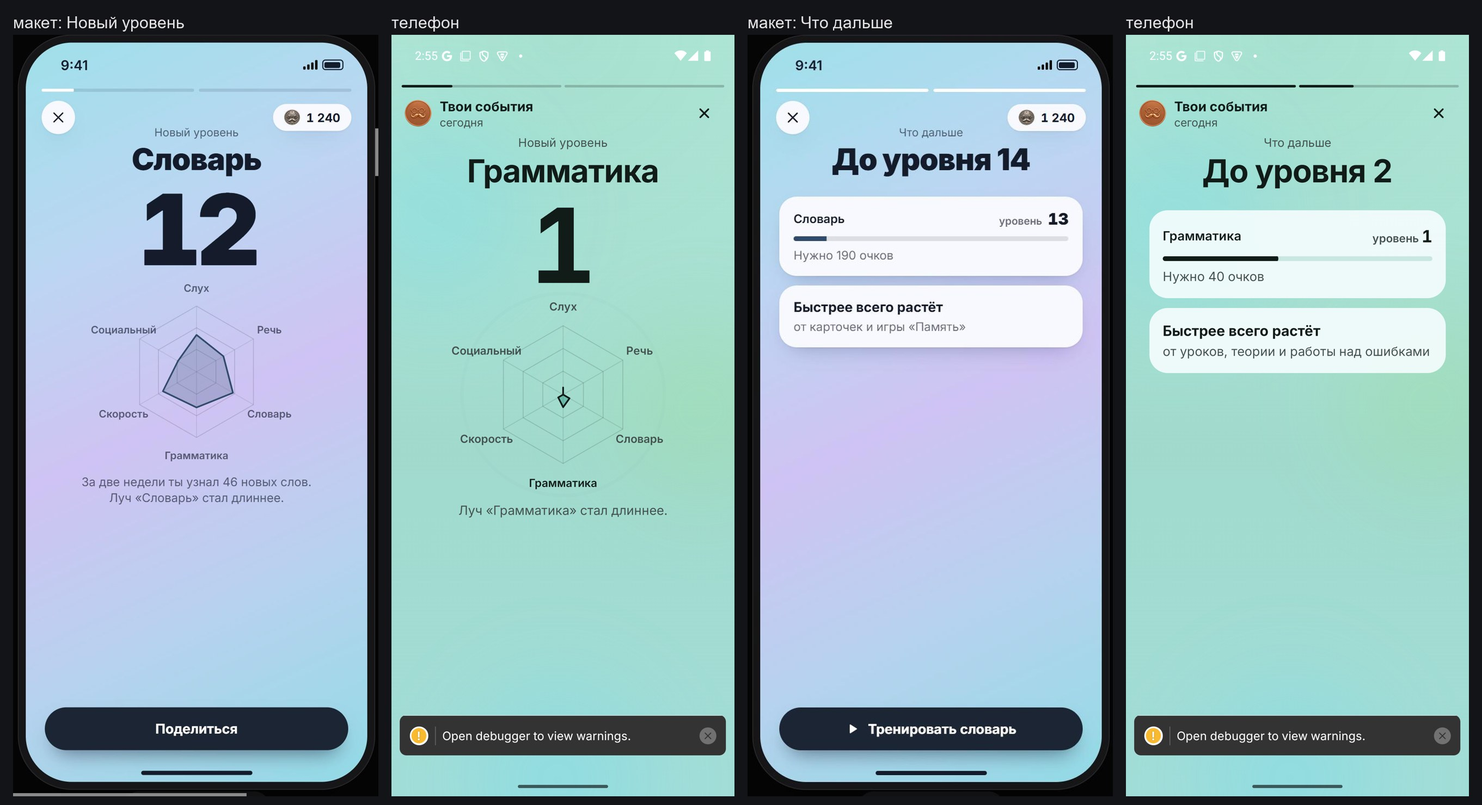
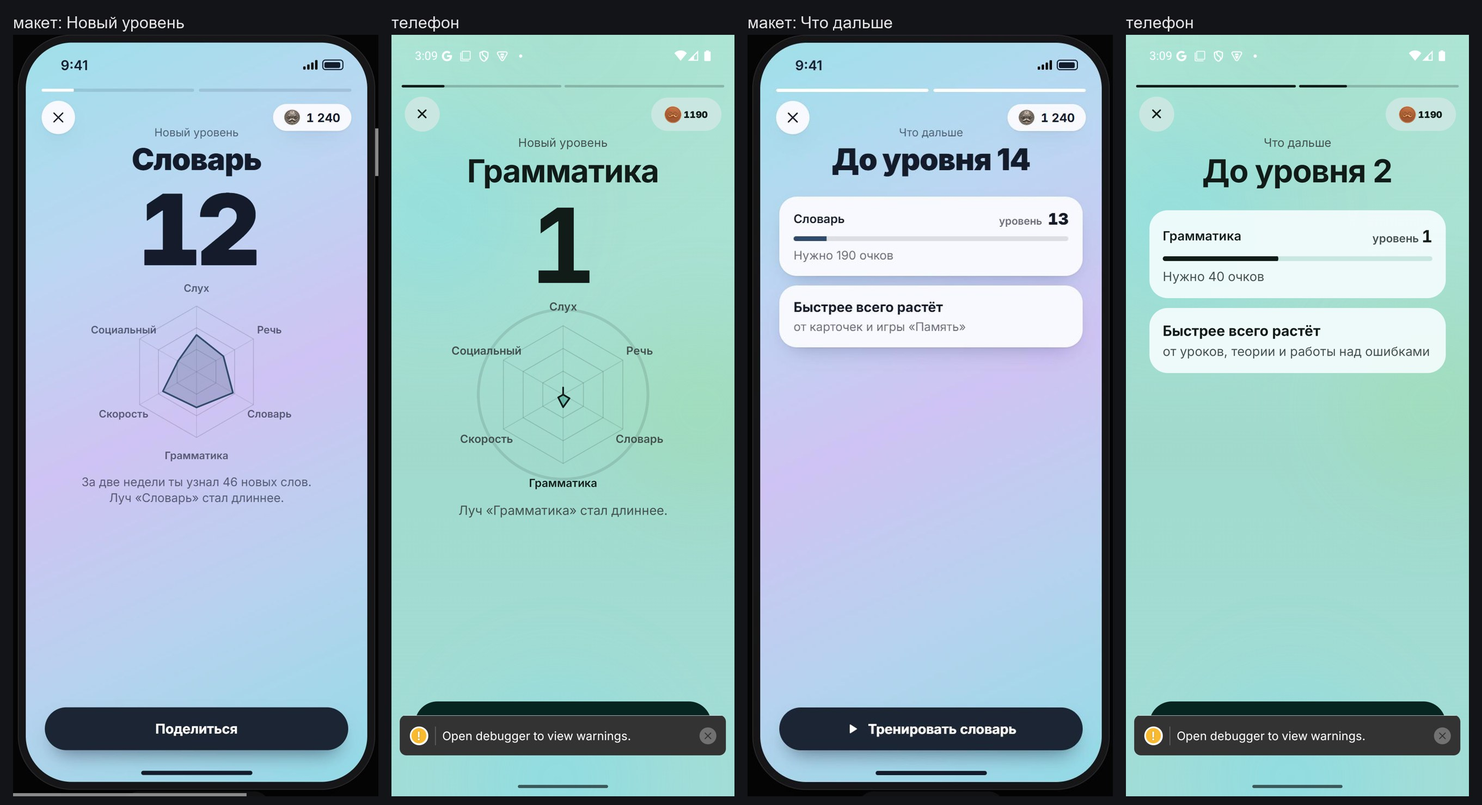
feat(skills): кадр уровня навыка в историях как в макете — шапка ✕ и монеты, кнопки «Поделиться» и «Тренировать <навык>»

diff --git a/components/skills/SkillLevelUpStory.tsx b/components/skills/SkillLevelUpStory.tsx
@@ -28,7 +28,7 @@ import { useStableSafeAreaInsets } from '../../app/stable_safe_area_metrics';
 import { hapticTap } from '../../hooks/use-haptics';
 import { useReduceMotion } from '../../hooks/use_reduce_motion';
 import { SKILL_NAME, SKILL_SOURCE } from '../../modules/skills/skill_copy';
-import { SKILL_IDS, STUDY_SKILL_IDS } from '../../modules/skills/skill_points_table';
+import { SKILL_IDS, STUDY_SKILL_IDS, type SkillId } from '../../modules/skills/skill_points_table';
 import type { SkillLevelUpStory as StoryData } from '../../modules/skills/skill_level_up_story';
 import SkillLevelUpStar from './SkillLevelUpStar';
 
@@ -57,6 +57,16 @@ const T = {
   train: { ru: 'Тренировать {name}', uk: 'Тренувати {name}', es: 'Entrenar {name}', en: 'Train {name}' },
   close: { ru: 'Закрыть', uk: 'Закрити', es: 'Cerrar', en: 'Close' },
 } as const satisfies Record<string, Copy>;
+
+// зачем (сверка 12.11): «Тренировать грамматика» — в кнопке навык стоит в винительном падеже (макет: «Тренировать словарь»)
+const TRAIN_NAME: Readonly<Record<SkillId, Copy>> = {
+  listening: { ru: 'слух', uk: 'слух', es: 'la escucha', en: 'listening' },
+  speech: { ru: 'речь', uk: 'мовлення', es: 'el habla', en: 'speaking' },
+  vocab: { ru: 'словарь', uk: 'словник', es: 'el vocabulario', en: 'vocabulary' },
+  grammar: { ru: 'грамматику', uk: 'граматику', es: 'la gramática', en: 'grammar' },
+  speed: { ru: 'скорость', uk: 'швидкість', es: 'la velocidad', en: 'speed' },
+  social: { ru: 'общение', uk: 'спілкування', es: 'lo social', en: 'social' },
+};
 
 // SKILL_SOURCE начинается со слов «Растёт от…» — под заголовком «Быстрее всего растёт» повтор глагола убираем (макет: «от карточек…»)
 const SOURCE_HEAD: Copy = { ru: 'Растёт ', uk: 'Зростає ', es: 'Crece ', en: 'Grows ' };
@@ -101,6 +111,12 @@ const Segment = memo(function Segment({ state, track, fill }: Readonly<{ state: 
     </View>
   );
 });
+
+/** Обёртка первого кадра: сам по себе — нажатие листает на второй кадр; в просмотрщике историй — простой слой, листает просмотрщик. */
+function FrameTap({ embedded, onPress, accessible, children }: Readonly<{ embedded: boolean; onPress: () => void; accessible: boolean; children: React.ReactNode }>) {
+  if (embedded) return <View style={s.frameTap} pointerEvents="box-none">{children}</View>;
+  return <Pressable style={s.frameTap} onPress={onPress} accessibilityRole={accessible ? 'button' : undefined}>{children}</Pressable>;
+}
 
 type Props = Readonly<{
   story: StoryData;
@@ -166,13 +182,27 @@ function SkillLevelUpStory({ story, onClose, onTrain, topRight, testID = 'skill-
     console.log(`${LOG} next_frame ${JSON.stringify({ skill: story.skill })}`); // guard-ok: переход ко второму кадру
   }, [bar, embedded, frame, hasNext, reduceMotion, slide, story.next, story.skill]);
 
+  // зачем: двойное нажатие не открывает второе системное окно «Поделиться» и не ведёт на тренировку дважды
+  const busy = useRef(false);
   const onShare = useCallback((event: GestureResponderEvent) => {
     event.stopPropagation();
+    if (busy.current) return;
+    busy.current = true;
     void hapticTap();
-    Share.share({ message: `${triLang(L, T.over)}: ${name} · ${story.toLevel}` }).catch((error: unknown) => {
-      console.warn(`${LOG} share:failed ${error instanceof Error ? error.message : String(error)}`); // guard-ok: catch называет причину
-    });
+    Share.share({ message: `${triLang(L, T.over)}: ${name} · ${story.toLevel}` })
+      .catch((error: unknown) => {
+        console.warn(`${LOG} share:failed ${error instanceof Error ? error.message : String(error)}`); // guard-ok: catch называет причину
+      })
+      .finally(() => { busy.current = false; });
   }, [L, name, story.toLevel]);
+  const onTrainPress = useCallback((event: GestureResponderEvent) => {
+    event.stopPropagation();
+    if (busy.current) return;
+    busy.current = true;
+    void hapticTap();
+    console.log(`${LOG} train ${JSON.stringify({ skill: story.skill, embedded: embedded ?? null })}`); // guard-ok: одна строка на нажатие
+    onTrain?.();
+  }, [embedded, onTrain, story.skill]);
 
   const firstStyle = useAnimatedStyle(() => ({ opacity: 1 - frame.value }));
   const secondStyle = useAnimatedStyle(() => ({ opacity: frame.value }));
@@ -193,8 +223,8 @@ function SkillLevelUpStory({ story, onClose, onTrain, topRight, testID = 'skill-
     <View testID={testID} style={[s.root, embedded ? s.rootEmbedded : { paddingTop: insets.top + 14 }]}>
       {/* кадры лежат под шапкой: нажатие по экрану ведёт дальше, кнопки шапки — сверху */}
       {embeddedNext ? null : (
-      <Reanimated.View pointerEvents={slide === 0 && !embedded ? 'auto' : 'none'} style={[s.frame, frameInsets, firstStyle]}>
-        <Pressable style={s.frameTap} onPress={showNext} disabled={!!embedded} accessibilityRole={hasNext && !embedded ? 'button' : undefined}>
+      <Reanimated.View pointerEvents={embedded ? 'box-none' : slide === 0 ? 'auto' : 'none'} style={[s.frame, frameInsets, firstStyle]}>
+        <FrameTap embedded={!!embedded} onPress={showNext} accessible={hasNext && !embedded}>
           <Text style={[s.over, { color: p.textSecondary }]}>{triLang(L, T.over)}</Text>
           <Text style={[s.big, { color: p.text }]}>{name}</Text>
           <GameBumpText
@@ -207,17 +237,15 @@ function SkillLevelUpStory({ story, onClose, onTrain, topRight, testID = 'skill-
           </View>
           <Text style={[s.sub, s.subCenter, { color: p.textSecondary }]}>{triLang(L, T.longer).replace('{name}', name)}</Text>
           <View style={s.spacer} />
-          {embedded ? null : (
-            <Pressable testID={`${testID}-share`} onPress={onShare} style={[s.cta, { backgroundColor: p.cta }]} accessibilityRole="button">
-              <Text style={[s.ctaText, { color: p.ctaText }]}>{triLang(L, T.share)}</Text>
-            </Pressable>
-          )}
-        </Pressable>
+          <Pressable testID={`${testID}-share`} onPress={onShare} style={[s.cta, { backgroundColor: p.cta }]} accessibilityRole="button">
+            <Text style={[s.ctaText, { color: p.ctaText }]}>{triLang(L, T.share)}</Text>
+          </Pressable>
+        </FrameTap>
       </Reanimated.View>
       )}
 
       {hasNext && story.next && embedded !== 'up' ? (
-        <Reanimated.View pointerEvents={slide === 1 ? 'auto' : 'none'} style={[s.frame, frameInsets, secondStyle]}>
+        <Reanimated.View pointerEvents={embedded ? 'box-none' : slide === 1 ? 'auto' : 'none'} style={[s.frame, frameInsets, secondStyle]}>
           <Text style={[s.over, { color: p.textSecondary }]}>{triLang(L, T.next)}</Text>
           <Text style={[s.big, { color: p.text }]}>{triLang(L, T.toLevel).replace('{n}', String(story.next.level))}</Text>
           <View style={[s.panel, s.panelFirst, { backgroundColor: p.glass }]}>
@@ -237,10 +265,10 @@ function SkillLevelUpStory({ story, onClose, onTrain, topRight, testID = 'skill-
             <Text style={[s.sub, s.subSmallTop, { color: p.textSecondary }]}>{sourceTail}</Text>
           </View>
           <View style={s.spacer} />
-          {canTrain && !embedded ? (
-            <Pressable testID={`${testID}-train`} onPress={() => { void hapticTap(); onTrain?.(); }} style={[s.cta, { backgroundColor: p.cta }]} accessibilityRole="button">{/* guard-ok: кнопка 54 pt во всю ширину с текстом */}
+          {canTrain ? (
+            <Pressable testID={`${testID}-train`} onPress={onTrainPress} style={[s.cta, { backgroundColor: p.cta }]} accessibilityRole="button">{/* guard-ok: кнопка 54 pt во всю ширину с текстом */}
               <Ionicons name="play" size={18} color={p.ctaText} />
-              <Text style={[s.ctaText, { color: p.ctaText }]}>{triLang(L, T.train).replace('{name}', name.toLocaleLowerCase(L))}</Text>
+              <Text style={[s.ctaText, { color: p.ctaText }]}>{triLang(L, T.train).replace('{name}', triLang(L, TRAIN_NAME[story.skill]))}</Text>
             </Pressable>
           ) : null}
         </Reanimated.View>

diff --git a/components/stories/StoryViewer.tsx b/components/stories/StoryViewer.tsx
@@ -10,6 +10,7 @@ import { isStoryAvailable, nextLiveStoryIndex } from '../../modules/story_events
 // Пауза также при фоне приложения/уходе экрана из фокуса. Экранный диктор: автопереход выключен (читать успеть нельзя), листание — тапом «дальше». reduceMotion — без раскрытия и улёта.
 // Логи: [STORY-VIEWER] (открытие, кадр, пауза/возобновление, закрытие с причиной).
 // ═══════════════════════════════════════════════════════════════════════════
+import { RuneBalanceChip } from '../RuneBalanceChip';
 import { tryPlayV2Event } from '../../modules/sound_v2/legacy_bridge';
 import React, { memo, useCallback, useEffect, useMemo, useRef, useState } from 'react';
 import { AccessibilityInfo, Modal, Pressable, StyleSheet, Text, View, useWindowDimensions, type GestureResponderEvent } from 'react-native';
@@ -51,6 +52,8 @@ export const STORY_ENTER_MS = 380;
 export const STORY_CLOSE_MS = 320;
 /** Левая зона «назад»: 32 % ширины (образец `.stap.l`). */
 export const STORY_PREV_ZONE = 0.32;
+/** Кадр уровня навыка: от низа экрана до верха его кнопки — низ области кадра 60 + кнопка 54 + запас 6. */
+const SKILL_LEVEL_CTA_ZONE = 60 + 54 + 6;
 /** Удержание дольше этого — пауза, мс. */
 export const STORY_HOLD_MS = 220;
 /** Фотостудия settle (Сверка и Сайт 28.10): часы кадра замирают ровно на 6000 мс — при любой длительности полосы (10 / 12 / 15 с). */
@@ -322,7 +325,9 @@ function StoryViewer({ lang, liveAnnouncementIds, liveHomeStoryIds, events: even
     return annV2 ? announcementCta(annV2) : null;
   }, [annV2, lang, tpl]);
   const ctaBottom = storyCtaBottom(insets.bottom);
-  ctaZoneRef.current = cta ? winH - ctaBottom - STORY_CTA_HEIGHT - 6 : null;
+  // зачем (кадр уровня навыка, макет sk-story): кнопка кадра «Поделиться»/«Тренировать» (54 dp) стоит внизу области кадра (низ 60) — нажатие по ней не листает
+  const skillLevelFrame = event?.type === 'skill_level';
+  ctaZoneRef.current = cta ? winH - ctaBottom - STORY_CTA_HEIGHT - 6 : skillLevelFrame ? winH - SKILL_LEVEL_CTA_ZONE : null;
   // зачем (Сайт 28.10): часы кадра идут столько же, сколько полоса (runBar): у объявления 12/15 с кадр иначе шёл бы медленнее макета
   const frameDurationMs = event?.type === 'announcement' ? Math.max(STORY_SLIDE_MS, Number(event.payload.durationMs) || STORY_SLIDE_MS) : STORY_SLIDE_MS;
   const clock = useMemo<StoryFrameClock>(() => ({ progress, durationMs: frameDurationMs, final: reduceMotion || screenReader }), [progress, frameDurationMs, reduceMotion, screenReader]);
@@ -366,6 +371,19 @@ function StoryViewer({ lang, liveAnnouncementIds, liveHomeStoryIds, events: even
                 </View>
               ))}
             </View>
+            {skillLevelFrame ? (
+              // зачем (макет sk-story: «✕» слева, монеты справа) — своя шапка только у кадра уровня навыка, остальные истории не тронуты
+              <View style={s.header} testID={`${testID}-skill-head`}>
+                <Pressable testID={`${testID}-close`} accessibilityRole="button" accessibilityLabel={storyText(lang, 'close')} hitSlop={6} onPress={() => close('button')} style={[s.skillClose, { backgroundColor: p.control }]}>
+                  <Ionicons name="close" size={20} color={p.text} />
+                </Pressable>
+                <View style={s.headerCopy} />
+                {/* макет `.coins`: монеты на светлой «пилюле» 40 dp */}
+                <View style={[s.skillCoins, { backgroundColor: p.control }]}>
+                  <RuneBalanceChip color={p.text} size={20} interactive={false} testID={`${testID}-coins`} />
+                </View>
+              </View>
+            ) : (
             <View style={s.header}>
               {event?.type!=='announcement' ? <SpireRankCoin rank={coinRank} size={32} /> : null}
               <View style={s.headerCopy}>
@@ -376,12 +394,13 @@ function StoryViewer({ lang, liveAnnouncementIds, liveHomeStoryIds, events: even
                 <Ionicons name="close" size={22} color={p.text} />
               </Pressable>
             </View>
+            )}
             {annV2 && event ? (
               <StoryAnnouncementV2Layer key={event.id} announcement={annV2} lang={lang} myRank={coinRank} bottom={cta ? STORY_SLIDE_BOTTOM_CTA : 60} studio={studio} testID={`${testID}-slide`} />
             ) : null}
             {tpl || annV2 ? null : (
-              <Animated.View key={event?.id ?? 'none'} testID={`${testID}-slide`} style={[s.slide, slideStyle]} pointerEvents={event?.type==='announcement'?'box-none':'none'}>
-                {event ? <StorySlide event={event} lang={lang} coinRank={coinRank} paused={pausedUi} /> : null}
+              <Animated.View key={event?.id ?? 'none'} testID={`${testID}-slide`} style={[s.slide, slideStyle]} pointerEvents={event?.type==='announcement'||skillLevelFrame?'box-none':'none'}>
+                {event ? <StorySlide event={event} lang={lang} coinRank={coinRank} paused={pausedUi} onCloseViewer={skillLevelFrame ? close : undefined} /> : null}
               </Animated.View>
             )}
             {(tpl || annV2) && cta && event ? <StoryCta key={`cta-${event.id}`} cta={cta} lang={lang} bottom={ctaBottom} onPress={onCta} testID={`${testID}-cta`} /> : null}
@@ -408,6 +427,9 @@ const s = StyleSheet.create({
   headerCopy: { flex: 1, minWidth: 0 },
   name: { fontSize: 16, lineHeight: 21, fontWeight: '700' },
   when: { fontSize: 13, lineHeight: 17 },
+  // макет `.gbtn`: круг 42 на подложке
+  skillCoins: { height: 40, borderRadius: 20, paddingHorizontal: 14, flexDirection: 'row', alignItems: 'center' },
+  skillClose: { width: 42, height: 42, borderRadius: 21, alignItems: 'center', justifyContent: 'center' },
   closeBtn: { width: 40, height: 40, borderRadius: 20, alignItems: 'center', justifyContent: 'center' },
   // кадр: между шапкой и низом (образец `.sslide`: top 120, bottom 60, поля 28)
   slide: { position: 'absolute', left: 0, right: 0, top: 120, bottom: 60, alignItems: 'center', justifyContent: 'center', paddingHorizontal: 28 },

diff --git a/components/skills/SkillLevelStorySlide.tsx b/components/skills/SkillLevelStorySlide.tsx
@@ -6,7 +6,8 @@
  * зачем: кадр рисует ФАКТ — уровни и звезду по текущим очкам навыка (закон празднования 01.09); очки уже начислены
  * и от показа не зависят. Очков ещё нет в памяти — берём с диска один раз; текущий уровень ниже записанного — кадра нет.
  */
-import React, { memo, useEffect, useMemo, useState } from 'react';
+import React, { memo, useCallback, useEffect, useMemo, useState } from 'react';
+import { useRouter } from 'expo-router';
 import { StyleSheet, View } from 'react-native';
 import type { StoryEvent } from '../../modules/story_events/story_events_core';
 import { peekSkills, refreshSkills, subscribeSkills } from '../../modules/skills/skill_store';
@@ -18,11 +19,24 @@ import SkillLevelUpStory from './SkillLevelUpStory';
 const LOG = '[SKILL-LEVEL-STORY]';
 const noop = (): void => undefined;
 
+/**
+ * Куда ведёт «Тренировать <навык>» (макет: «Тренировать словарь»). Ночное умолчание 12.11, владельцу на утро:
+ * раздел, от которого навык растёт (SKILL_SOURCE). «Речь» — экран навыков (своего входа в устные режимы нет); «Социальный» не тренируется.
+ */
+const TRAIN_ROUTE: Readonly<Partial<Record<SkillId, string>>> = {
+  listening: '/(tabs)/video',
+  speech: '/skills',
+  vocab: '/flashcards',
+  grammar: '/(tabs)/lessons',
+  speed: '/game_flow',
+};
+
 function isSkillId(value: unknown): value is SkillId {
   return typeof value === 'string' && (SKILL_IDS as readonly string[]).includes(value);
 }
 
-function SkillLevelStorySlide({ event }: Readonly<{ event: StoryEvent }>) {
+function SkillLevelStorySlide({ event, onCloseViewer }: Readonly<{ event: StoryEvent; onCloseViewer?: (source: string) => void }>) {
+  const router = useRouter();
   const [totals, setTotals] = useState<SkillTotals | null>(() => peekSkills()?.totals ?? null);
 
   useEffect(() => {
@@ -47,10 +61,18 @@ function SkillLevelStorySlide({ event }: Readonly<{ event: StoryEvent }>) {
     console.warn(`${LOG} no_frame ${JSON.stringify({ skill: p.skill, from: p.fromLevel, to: p.toLevel, frame })}`); // guard-ok: ранний выход называет причину
   }, [frame, p.fromLevel, p.skill, p.toLevel, story, totals]);
 
+  const route = isSkillId(p.skill) ? TRAIN_ROUTE[p.skill] : undefined;
+  const onTrain = useCallback(() => {
+    if (!route) return;
+    // зачем: просмотр историй — Modal; не закрыть его — раздел откроется под ним (как у кнопки «Plus» в историях)
+    onCloseViewer?.('cta_skill_train');
+    router.push(route as never);
+  }, [onCloseViewer, route, router]);
+
   if (!story) return <View style={s.fill} />;
   return (
     <View style={s.fill}>
-      <SkillLevelUpStory story={story} onClose={noop} embedded={frame} testID={`skill-level-story-${frame}`} />
+      <SkillLevelUpStory story={story} onClose={noop} onTrain={route ? onTrain : undefined} embedded={frame} testID={`skill-level-story-${frame}`} />
     </View>
   );
 }

diff --git a/components/stories/StorySlides.tsx b/components/stories/StorySlides.tsx
@@ -39,6 +39,8 @@ export type StorySlideProps = Readonly<{
   lang: Lang;
   /** Ранг монеты человека (для маркера «ты здесь» на башне); null — базовая монета. */
   coinRank: number | null;
+  /** Закрыть просмотр перед переходом из кнопки кадра (кадр уровня навыка: «Тренировать»). */
+  onCloseViewer?: (source: string) => void;
   /** Просмотр на паузе (палец держит экран): анимации слайда стоят. */
   paused?: boolean;
 }>;
@@ -193,7 +195,7 @@ function StorySlide(props: StorySlideProps) {
     case 'achievement': return <AchievementSlide {...props} />;
     case 'theme_unlock': return <ThemeUnlockSlide {...props} />;
     // зачем (D207, макет sk-story): навык поднялся на уровень — кадр «Новый уровень» / «Что дальше» по текущим очкам
-    case 'skill_level': return <SkillLevelStorySlide event={props.event} />;
+    case 'skill_level': return <SkillLevelStorySlide event={props.event} onCloseViewer={props.onCloseViewer} />;
     default: return null;
   }
 }

diff --git a/docs/work/tasks/skill-level-story-buttons-2026-11-12.md b/docs/work/tasks/skill-level-story-buttons-2026-11-12.md
@@ -1,0 +1,51 @@
+# Кадр уровня навыка в историях — кнопки и шапка как в макете (12.11)
+
+Governance-ID: TG-B836BFA4C0DC
+
+## Outcome
+
+Кадры истории «Новый уровень» / «Что дальше» в просмотрщике историй совпадают с макетом `elevate-skills.js` (`sk-story`):
+кнопка «Поделиться» на первом кадре, «Тренировать <навык>» на втором, шапка «✕ слева + монеты на «пилюле» справа».
+Решение координатора 12.11 (гейт «приложение = макет»): расхождения убираем, не откладываем. Только этот вид кадра.
+
+## Scope
+
+- `components/stories/StoryViewer.tsx` — только для `event.type === 'skill_level'`: область кадра принимает нажатия
+  (`box-none`, тот же путь, что у объявлений), зона кнопки внизу не листает (`ctaZoneRef`), своя шапка ✕ + монеты.
+- `components/stories/StorySlides.tsx` — проброс `onCloseViewer` в кадр уровня навыка.
+- `components/skills/SkillLevelStorySlide.tsx` — «Тренировать»: закрыть просмотр и открыть раздел навыка.
+- `components/skills/SkillLevelUpStory.tsx` — кнопки во встроенном режиме, защита от двойного нажатия.
+
+## Architecture
+
+Нажатие по кадру вне кнопок по-прежнему листает просмотрщик (жест на корне). Кнопка — 54 dp во всю ширину; её зона
+(низ области кадра 60 + 54 + 6) исключена из листания. «Тренировать» сперва закрывает просмотр (Modal), потом
+`router.push` — как у кнопки Plus в историях. Куда ведёт (ночное умолчание, владельцу на утро): Слух — «Видео»,
+Речь — экран навыков, Словарь — «Карточки», Грамматика — «Уроки», Скорость — «Поток»; «Социальный» — кнопки нет.
+
+## Security and privacy
+
+Данных не собирает. «Поделиться» отдаёт системному окну только строку «Новый уровень: <навык> · <уровень>».
+
+## Technical debt
+
+- Accept temporarily: маршрут «Речи» — экран навыков (своего входа в устные режимы нет).
+
+## Verification
+
+Тесты историй (stories_ring_viewer_contract и соседние), button_audit_r58, проверка типов по четырём файлам —
+через светофор; склейка «макет | телефон» с кнопками и шапкой.
+
+## Rollback
+
+`git revert` коммита: кадр вернётся к общей шапке без кнопок; другие истории не затронуты.
+
+## Итог сверки (12.11, 03:09)
+
+Склейка обновлена: `docs/phraseman-2.0/evidence/parity/elevate-skill-story-check-frames_2026-11-12.jpg`.
+- Шапка: ✕ в круге 42 слева, монеты на «пилюле» 40 справа — как в макете.
+- «Поделиться» на первом кадре: нажатие открыло системное окно с текстом «Новый уровень: Грамматика · 1», кадр не пролистался
+  (журнал: «тап по кнопке действия — не листаем»).
+- «Тренировать» на втором кадре: просмотр закрылся (`cta_skill_train`), открылось «Обучение» (навык «Грамматика»).
+- Поймано и исправлено: «Тренировать грамматика» → «Тренировать грамматику» (винительный падеж по навыкам, 4 языка).
+- На последнем снимке низ кнопки закрыт плашкой отладки dev-сборки («Open debugger…»); в стор-сборке её нет.
